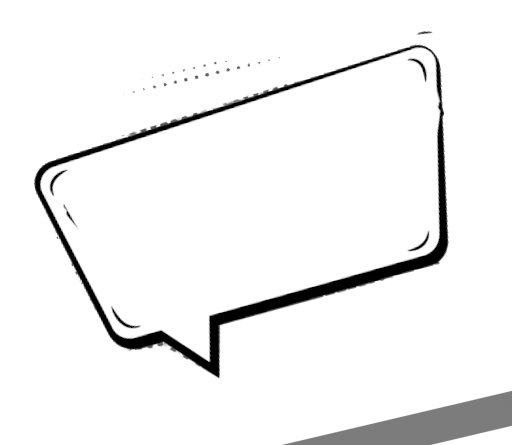
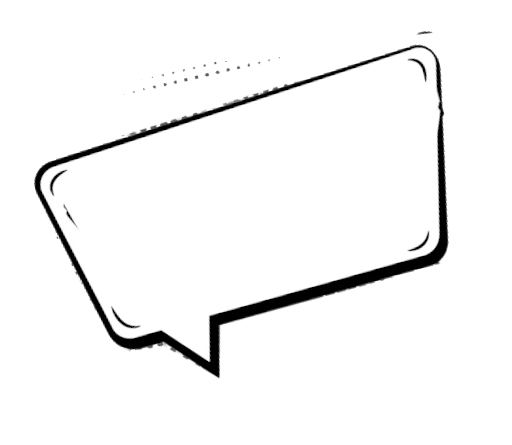
update files

Changed region(s): [[0.5312, 0.8764, 1.0, 1.0]]

diff --git a/main.html b/main.html
@@ -6,11 +6,11 @@
   <body>
     <div style="color:#000;">
       <div
-        style="font-size:0.6em;position: absolute; right: 80px; bottom: 150px;z-index:2;font-family: 'Comic Sans MS', 'Comic Sans', cursive;font-weight:bold;rotate:340deg;">
+        style="font-size:0.9em;position: absolute; right: 90px; bottom: 190px;z-index:2;font-family: 'Comic Sans MS', 'Comic Sans', cursive;font-weight:bold;rotate:340deg;">
         <span id="dps" style="font-size:1.8em;">???</span><span id="dps-label">zzz</span>
       </div>
-      <img src="bubble.png" style="width:150px;position:absolute;bottom:80px;right:30px;" />
-      <img id="dps-girl" src="girlz.png" style="width:120px;position:absolute;bottom:18px;right:0px;" />
+      <img src="bubble.png" style="width:150px;position:absolute;bottom:135px;right:60px;" />
+      <img id="dps-girl" src="girlz.png" style="width:160px;position:absolute;bottom:18px;right:0px;" />
     </div>
   </body>
   <script type="text/javascript">
@@ -20,15 +20,15 @@
 
      if (dps == "-1") {
        // If no dps is happening, she will sleep
-       dps = "ZZZZ"
+       dps = "ZZZ"
        document.getElementById("dps-girl").src = "girlz.png"
-       document.getElementById("dps-label").innerHTML="zzz"
+       document.getElementById("dps-label").innerHTML="zzzz"
      } else {
        // Randomly blink
        if (Math.random() > 0.03)
          document.getElementById("dps-girl").src = "girl.gif"
        else
-         document.getElementById("dps-girl").src = "girlz.png"
+         document.getElementById("dps-girl").src = "girlb.png"
        document.getElementById("dps-label").innerHTML="dps!"
      }
 		 document.getElementById("dps").innerHTML=dps
